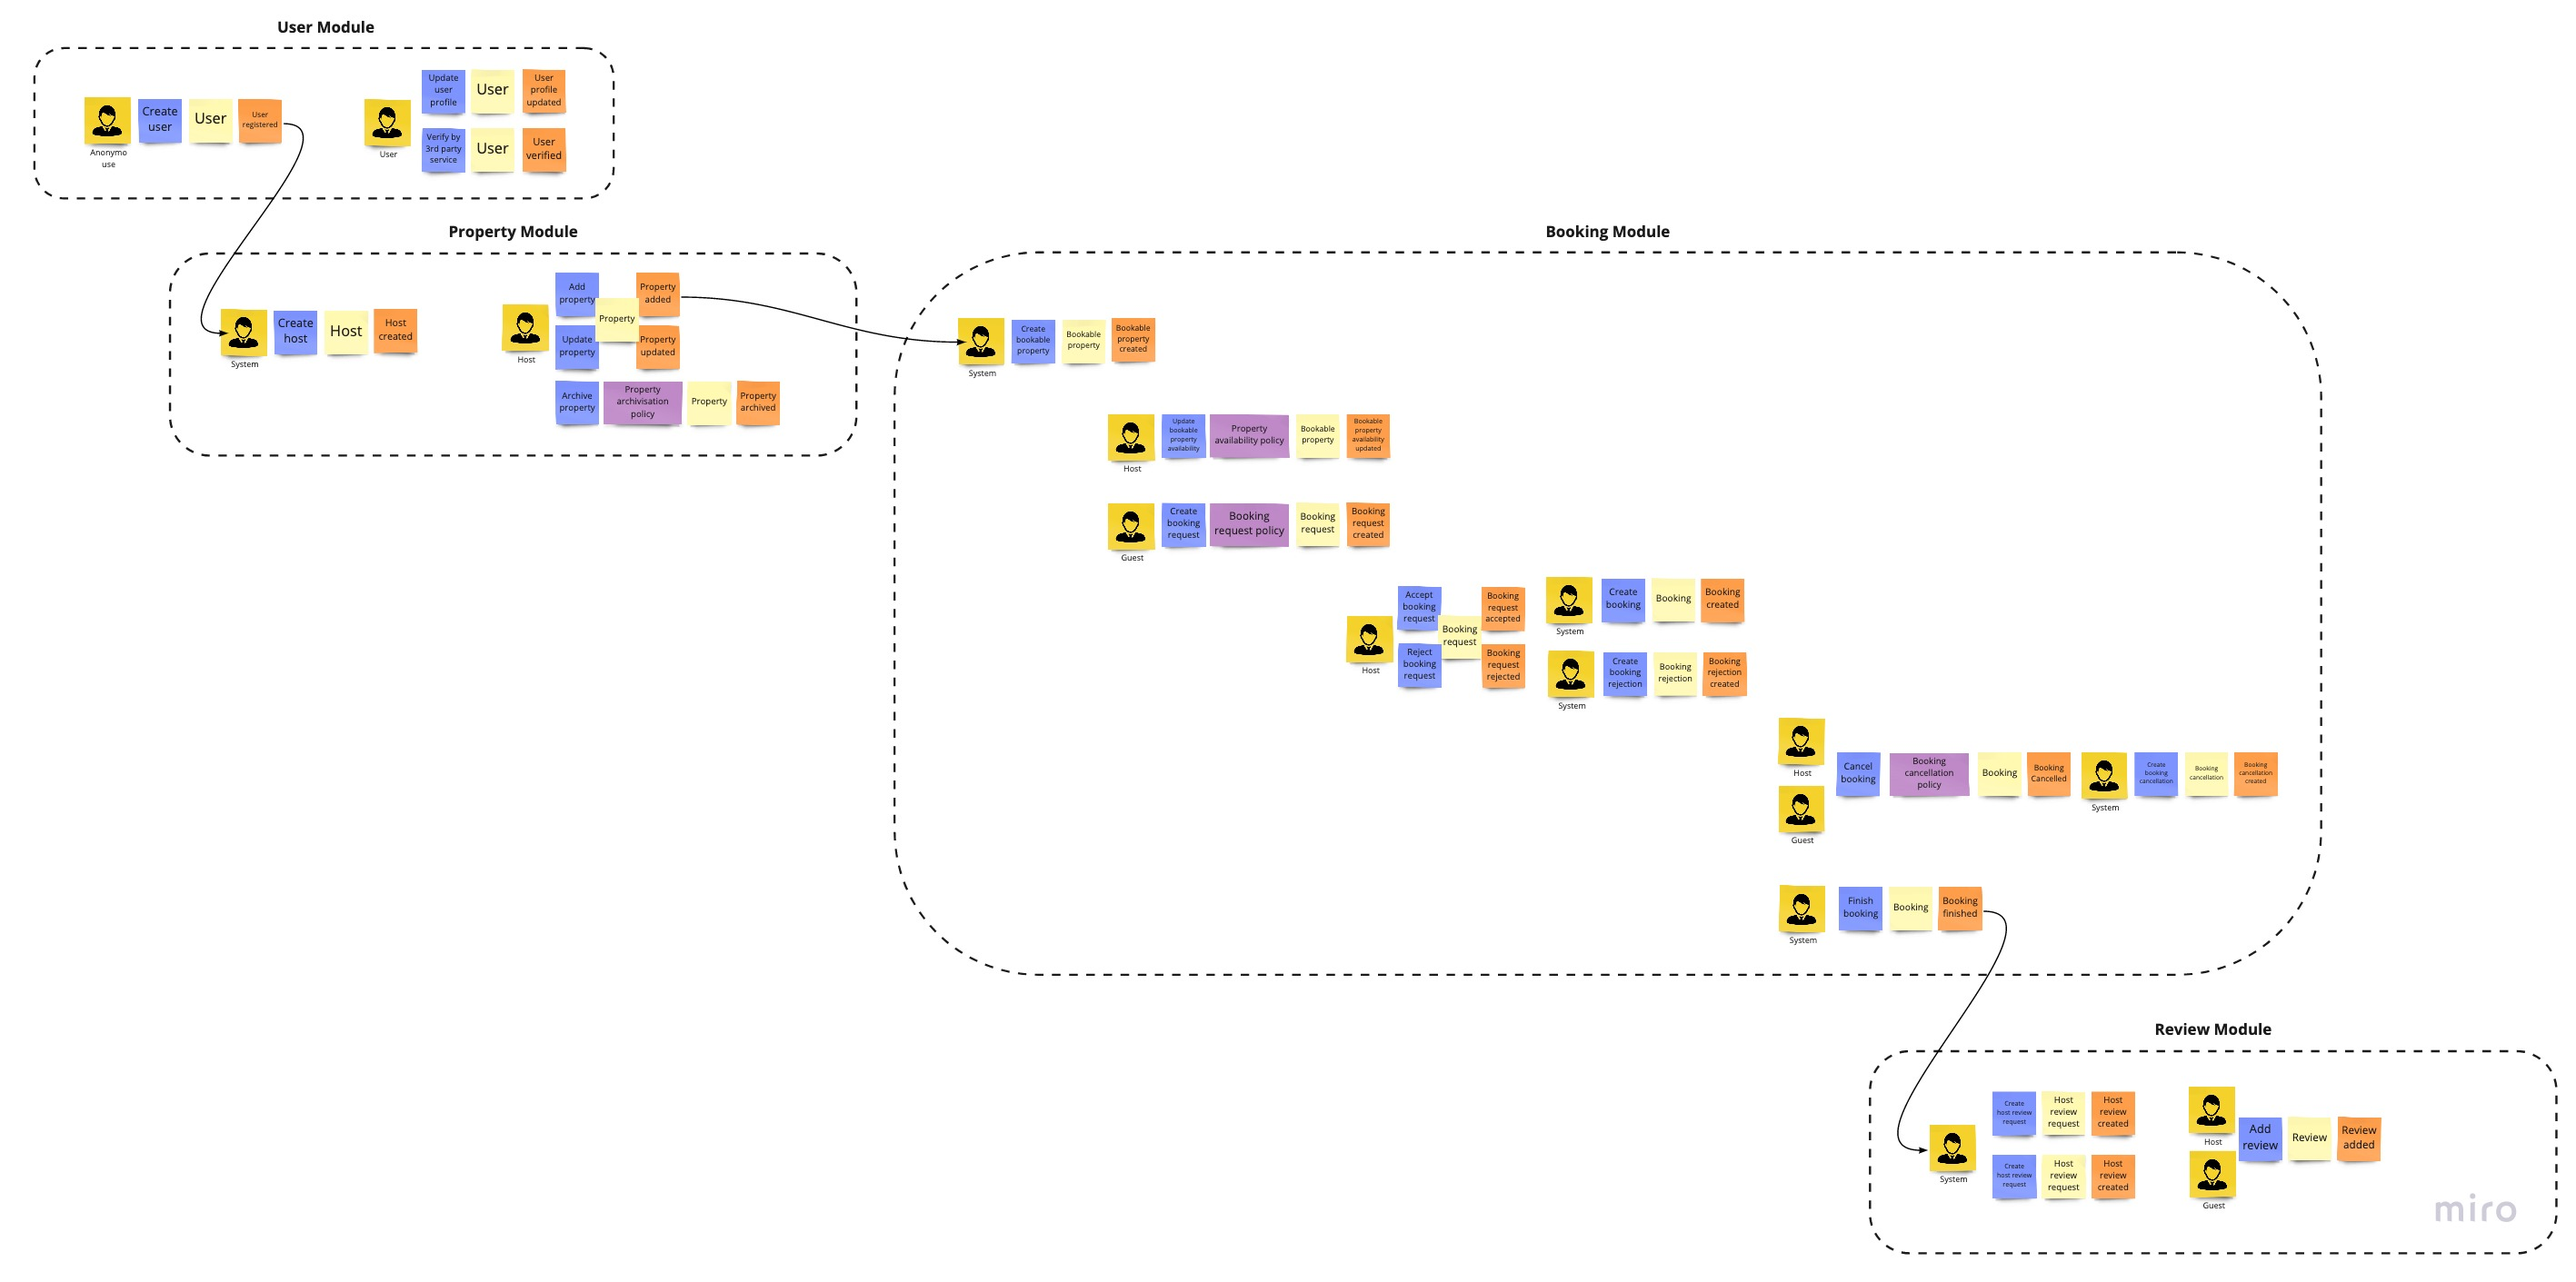
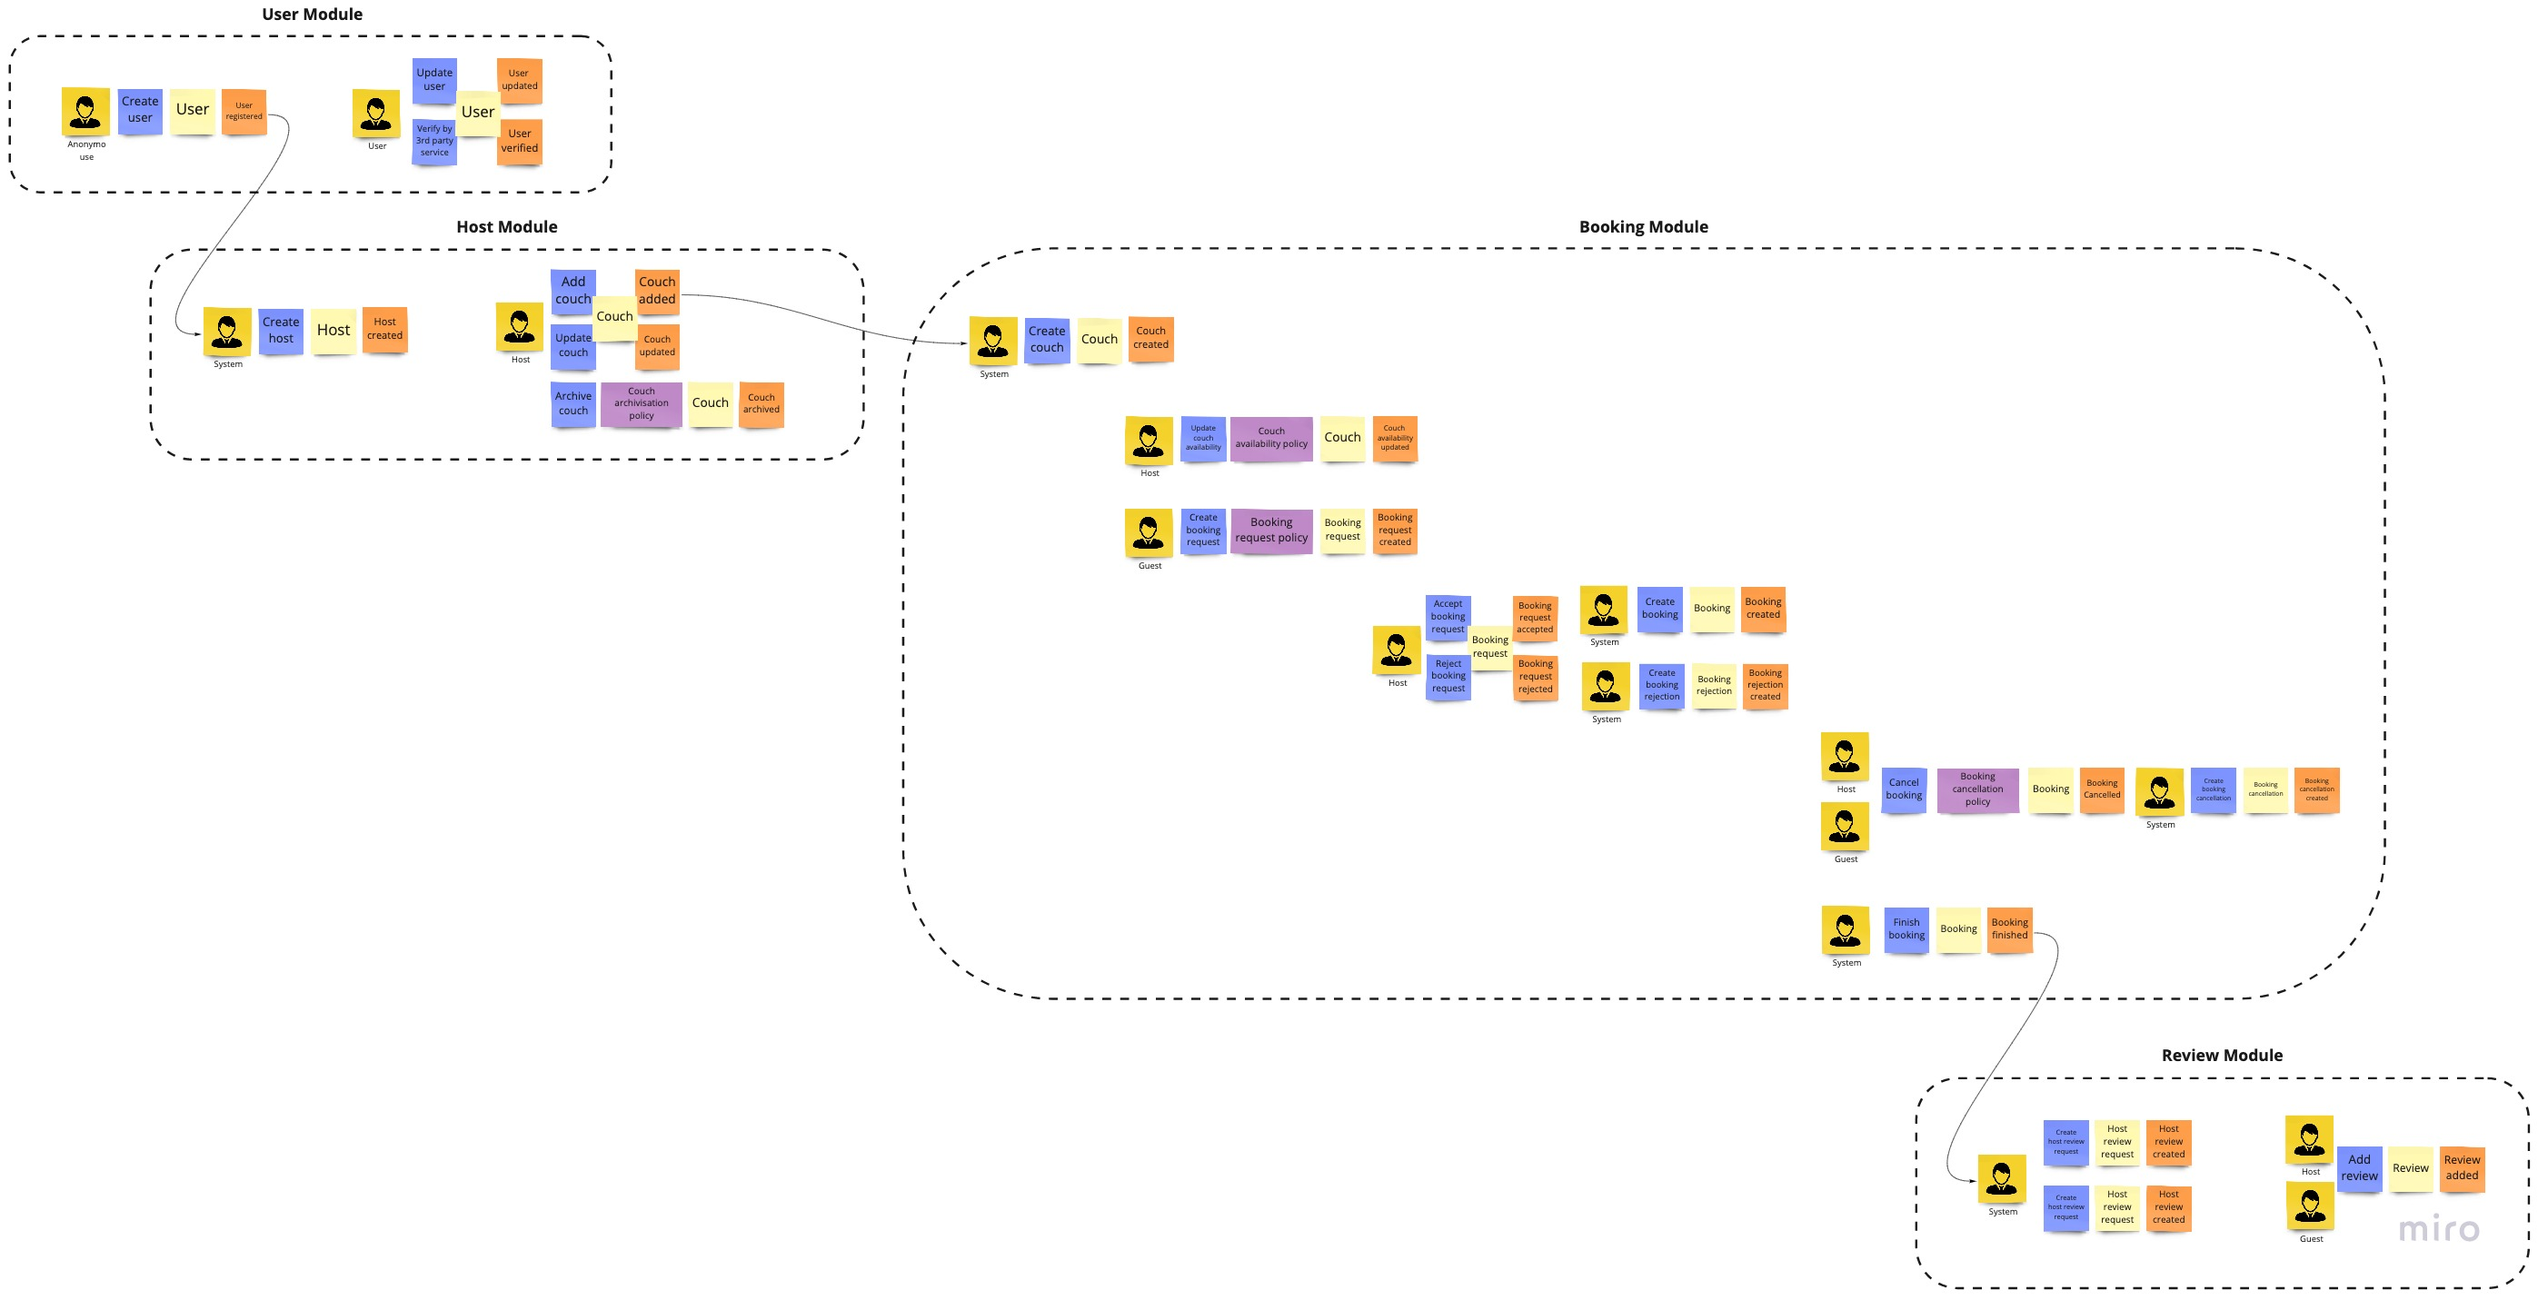
update docs

diff --git a/README.md b/README.md
@@ -3,26 +3,127 @@
 The project was created to demonstrate how we can create a modular monolith in Node.js. The main idea of the project was high separation of each module from each other. This allows each module to be developed independently by different teams. As the project develops this will also allow us to easily extract single modules into microservices. For this purpose, I chose a fairly well-known domain and on its example tried to present how the implementation of such an application can look like.
 In this file, as well as in the ADR, you will find implementation details as well as decisions that were made during this project. I would like every important point to be documented so that you can easily see the reasoning behind a particular choice.
 
+# Table of contents
+
+- [Travelhoop - Modular monolith in Node.js](#travelhoop---modular-monolith-in-nodejs)
+- [Table of contents](#table-of-contents)
+- [1. Domain](#1-domain)
+  - [1.1 About domain](#11-about-domain)
+  - [1.2 Event storming](#12-event-storming)
+    - [1.2.1 User module](#121-user-module)
+    - [1.2.2 Host module](#122-host-module)
+    - [1.2.3 Booking module](#123-booking-module)
+    - [1.2.4 Review module](#124-review-module)
+- [2. Architecture](#2-architecture)
+  - [2.1 Overview](#21-overview)
+    - [2.1.1 Event driven architecture](#211-event-driven-architecture)
+    - [2.1.2 Vertical slices](#212-vertical-slices)
+  - [2.2 Modules](#22-modules)
+    - [2.2.1 AppModule interface](#221-appmodule-interface)
+    - [2.2.2 Module loader](#222-module-loader)
+  - [2.3 Communication](#23-communication)
+    - [2.3.1 Message broker](#231-message-broker)
+  - [2.4 Architectural Decision Records](#24-architectural-decision-records)
+
 # 1. Domain
 
-## About domain
+## 1.1 About domain
 Travelhoop - It is an application thanks to which you can offer free accommodation to travelers. It allows you to make new acquaintances, friendships and meet people from all over the world. Each user can search for accommodation in any location in the world. This is a replication of the fairly well-known Couchsurfing app.
 
-## Event storming
+## 1.2 Event storming
 To discover the domain and what was behind it, I decided to use a very popular method called [event storming](https://www.eventstorming.com/). Below I present a diagram which was created after one session, on the basis of which the application will be built.
 
 ![Event storming overview](./docs/images/es-overview.jpg "Event storming overview")
 
-### User module
+### 1.2.1 User module
 ![User module](./docs/images/es-user-module.jpg "User module")
-### Property module
-![Property module](./docs/images/es-property-module.jpg "Property module")
-### Booking module
+### 1.2.2 Host module
+![Host module](./docs/images/es-host-module.jpg "Host module")
+### 1.2.3 Booking module
 ![Booking module](./docs/images/es-booking-module.jpg "Booking module")
-### Review module
+### 1.2.4 Review module
 ![Review module](./docs/images/es-review-module.jpg "Review module")
 
 # 2. Architecture
 
-## Architectural Decision Records
+## 2.1 Overview
+
+### 2.1.1 Event driven architecture
+To keep the independence of the modules high, I decided to use an event driven approach. It will allow us to synchronize the modules with each other asynchronously. It will also allow for low coupling between them. We will exchange messages (events) between modules. They will carry information about changes that occurred in one of the modules, so that the rest of the modules can react in an appropriate way, updating their state or performing some other operation.
+
+### 2.1.2 Vertical slices
+TBU
+## 2.2 Modules
+
+### 2.2.1 AppModule interface 
+Each module expose implementation of the following interface:
+
+```ts
+export interface UseDependencies {
+  dbConnection: DbConnection;
+  redis: Redis;
+}
+export interface AppModule {
+  basePath: string;
+  name: string;
+  path: string;
+  use: (app: Application, deps: UseDependencies) => void;
+  dispatchEvent(event: Event): Promise<void>;
+}
+```
+
+Here we define:
+- **basePath** - for a routing purposes we need to define main route for each module. It will help us orginise the module under specific paths
+- **name** - the name of the module. By the implementation of module loader, this should be the name like *some-module*
+- **use(app: Application, deps: UseDependencies)** - it's a method which we later use in our `app.ts` file to load whole module. Here we are passing common dependencies like connection to databases, which are shared across all modules. We can also add here our custom error handling, specific for each module, or some other middlewares. What is important, all middlewares defined here, will be a part of the whole pipeline of our express application. So be careful.
+- **dispatchEvent(event: Event)** - it's a method, which will be later used by our background message dispatcher, to pass integration events from e.g. queue to our module.
+
+### 2.2.2 Module loader
+In `server.ts` which is a main file of our application we are using module loader to load all the modules and register it into container.
+Next, registered modules are injected into app.ts, where we define an express execution pipeline. There we are registering all the modules, by executing their `use` method:
+
+```ts
+export const createApp = ({ errorHandler, modules, dbConnection, redis }: AppDependencies): Application => {
+  (...)
+
+  modules.forEach(m => m.use(app, { dbConnection, redis }));
+  
+  (...)
+```
+
+What is important, to correctly register module in our application we need to define a dependency to this module in `package.json`. Also the name of the module folder must follow this convention *some-module*. E.g. for user module, the folder name must be *user-module*. Under the hood we are loading modules interface by looking up for specific directories in our `/node_modules/@travelhoop` folder.
+
+## 2.3 Communication
+
+### 2.3.1 Message broker
+
+This is the main unit responsible for asynchronous message exchange between modules. It issues the `publish` method responsible for publishing them. Internally, the message broker can implement different types of `MessageDispatcher`.
+
+```ts
+interface MessageBrokerDependencies {
+  messageDispatcher: MessageDispatcher;
+}
+
+export class MessageBroker {
+  constructor(private readonly deps: MessageBrokerDependencies) {}
+
+  async publish<TMessage extends object>(message: TMessage) {
+    await this.deps.messageDispatcher.publish(JSON.stringify(message));
+  }
+}
+```
+
+Message dispatcher is a simply interface, implemented in various of way. 
+
+```ts
+export interface MessageDispatcher {
+  publish(message: string): Promise<void>;
+}
+```
+
+One of the implementaton is `RedisMessageDispatcher`. Under the hood it use a Redis queue to push a message to the consumers.
+Since our application is a single deployment unit, `MessageBroker` publishes messages to a single, common queue for all modules. The message is then retrieved by a single consumer. The implementation of the consumer can be found here `/modular-monolith/src/shared/infrastructure/src/messaging/background.message-dispatcher.ts`. It listen for a new message on queue and dispatch it to all the modules, by their interface. 
+Responsibility of each module is to decide if the message should be handled or not. Our main application doesn't care about it. Our modules are responsible for themselve.
+
+## 2.4 Architectural Decision Records
 All architectural decisions are keeped in `./docs/adr` directory. It captures an important architectural decision made along with its context and consequences. To automate this process I've used [adr-tools](https://github.com/npryce/adr-tools) library. It should help you understand, why I've made some decisions in this project. Very often we have a couple of possibility how to solve some problems. Often it has some pros and cons. It is important to make this decisions, knowing potential consequences. 

diff --git a/docs/adr/0005-use-local-contract-for-integration-events.md b/docs/adr/0005-use-local-contract-for-integration-events.md
@@ -1,0 +1,36 @@
+# 5. Use local contract for integration events
+
+Date: 2021-04-10
+
+## Status
+
+Accepted
+
+## Context
+
+Each of the module expose integration events. Other modules can listen for these events and execute specific action. We need to define events somewhere, to be able to properly handle it in each module.
+
+## Possible solutions
+
+1. Shared contracts. 
+Pros:
+- less code duplication
+- going into microservices it's easy to copy this directory, with all the codebase
+- easier to just import needed things instead of defining it multiple times in every module
+Cons:
+- coupling to mutiple modules
+
+1. Local contracts
+Pros:
+- less coupling
+Cons:
+- more effort to maintain integration between events e.g. contract testing
+- a lot of duplicated code
+
+## Decision
+
+One of the goals of this project is to keep each module as independent as possible, I decided to use local contracts
+
+## Consequences
+
+To maintain contract consistency, contract testing will need to be in place.

diff --git a/docs/adr/0004-share-infrastructure-between-all-modules.md b/docs/adr/0004-share-infrastructure-between-all-modules.md
@@ -1,4 +1,4 @@
-# 8. Share infrastrcture between all modules
+# 4. Share infrastrcture between all modules
 
 Date: 2021-04-01
 

diff --git a/docs/adr/0003-di-container-for-each-module.md b/docs/adr/0003-di-container-for-each-module.md
@@ -1,4 +1,4 @@
-# 7. DI container for each module
+# 3. DI container for each module
 
 Date: 2021-04-01
 
